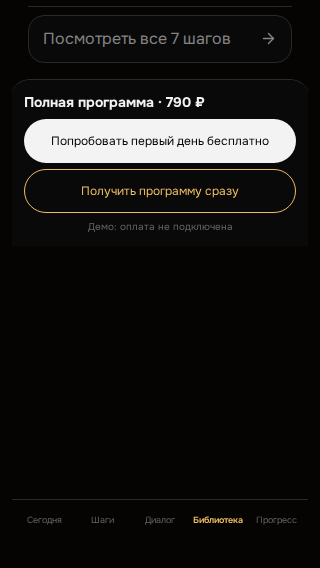
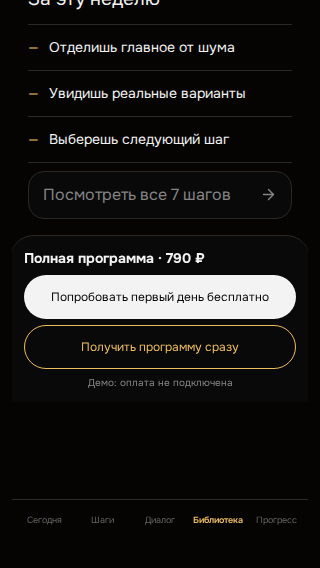
fix(ui-lab): align library purchase surface tokens

diff --git a/src/components/ui-lab/LibraryProgramsExperiment.css b/src/components/ui-lab/LibraryProgramsExperiment.css
@@ -1096,7 +1096,7 @@
     font-size: 10px;
   }
   .mx-library-programs--review .mx-library-programs__detail {
-    padding-bottom: 248px;
+    padding-bottom: calc(92px + env(safe-area-inset-bottom));
   }
   .mx-library-programs--review .mx-library-programs__detail-art {
     height: 140px;
@@ -1106,8 +1106,8 @@
     gap: 6px;
     margin-top: 0;
     padding: 12px 14px calc(12px + env(safe-area-inset-bottom));
-    border-radius: 20px 20px 0 0;
-    background: rgb(9 9 9 / 0.98);
+    border-radius: 24px 24px 0 0;
+    background: rgb(var(--c-card) / 0.98);
   }
   .mx-library-programs--review .mx-library-programs__detail-purchase > strong {
     font-size: 14px;
@@ -1121,6 +1121,7 @@
     font-size: 12px;
   }
   .mx-library-programs--review .mx-library-programs__detail-purchase small {
+    color: rgb(var(--c-muted));
     font-size: 10px;
   }
 }
